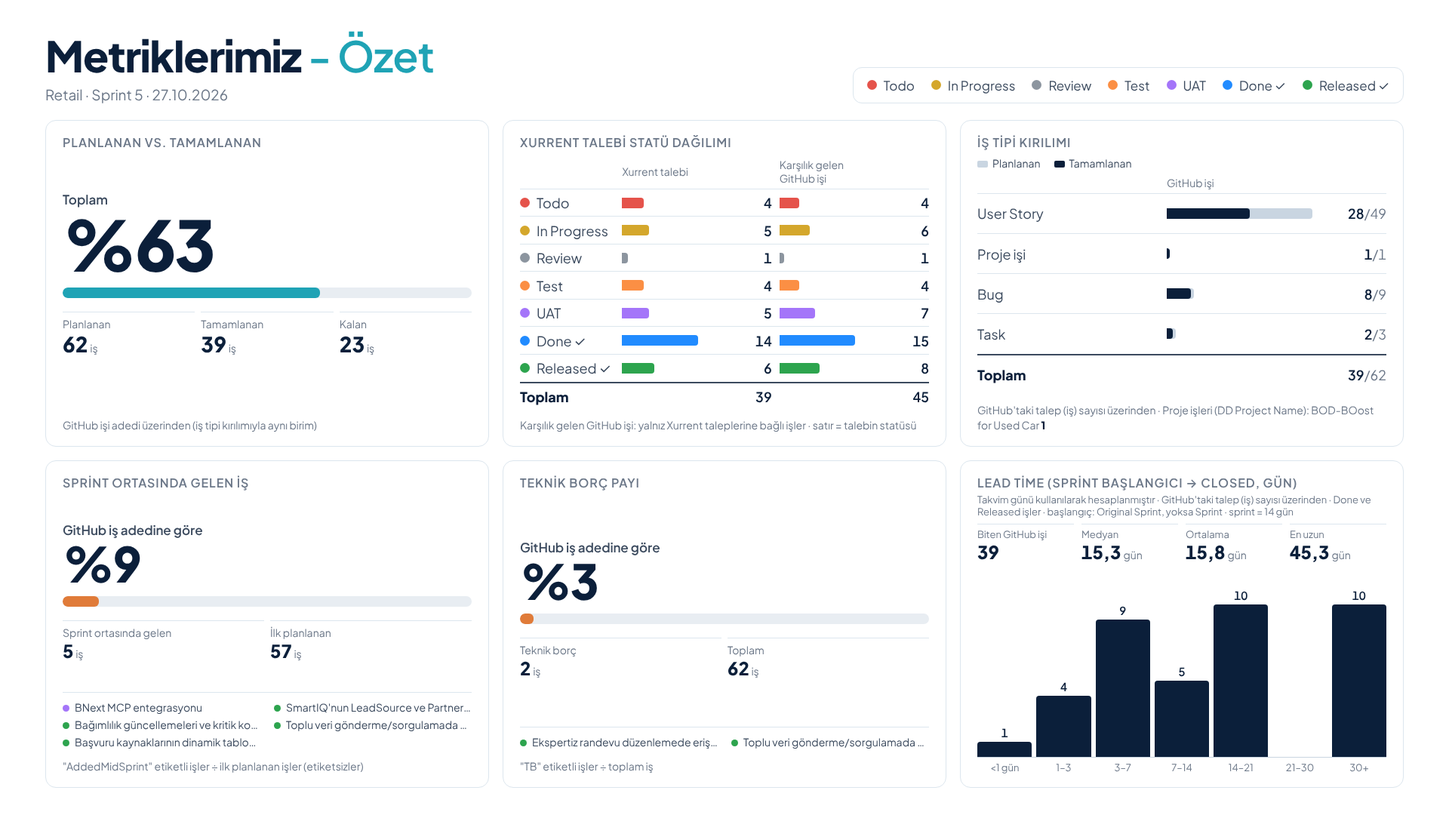
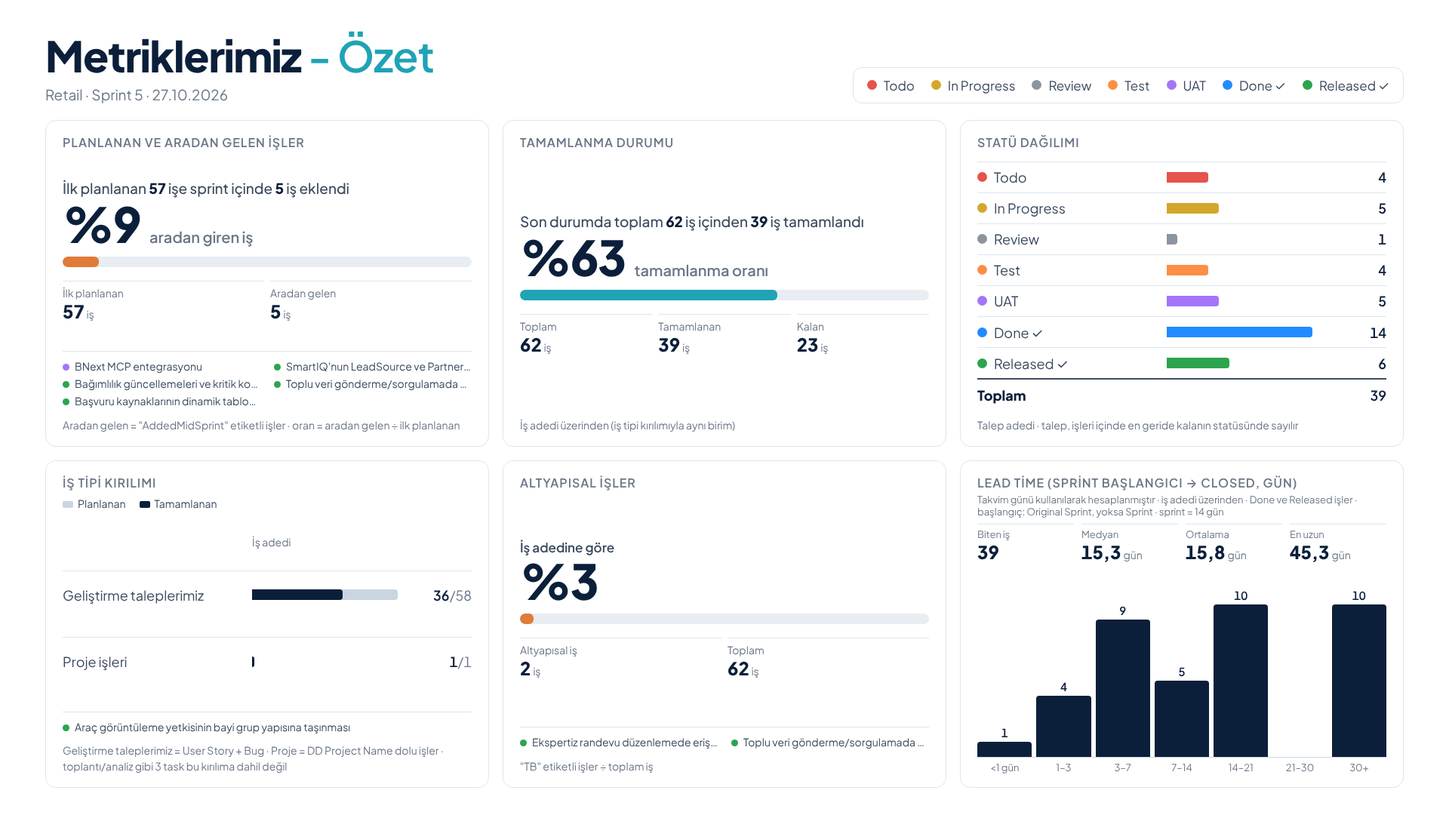
Metrics: Altyapısal işler naming, no GitHub wording, single-column status, Geliştirme/Proje type split, story-style planned/mid-sprint panels; regenerate Retail Sprint 5
Claude-Session: https://claude.ai/code/session_014SYUQQBmb2NC56QaszpaqB

diff --git a/.claude/skills/gelistirmeler-raporu/scripts/build_slides.py b/.claude/skills/gelistirmeler-raporu/scripts/build_slides.py
@@ -6,7 +6,7 @@
    kaç GitHub işinden oluştuğu ve önceki sprintten aktarıldıysa belirteçle gösterilir.
 2. Metriklerimiz — planlanan vs. tamamlanan (distinct Xurrent talebi + Xurrent no'suz ek
    talepler), statü dağılımı (Xurrent talebi | GitHub işi), iş tipi kırılımı, sprint
-   ortasında gelen iş oranı (AddedMidSprint), teknik borç oranı (TB), lead time.
+   ortasında gelen iş oranı (AddedMidSprint), altyapısal işler oranı (TB), lead time.
 3. Metriklerimiz (Takıma özel) — Original Estimate bazında planlanan vs. tamamlanan,
    statü dağılımı (OE) ve kişi bazında planlanan vs. tamamlanan.
 4. Canlıya Çıkmaya Hazır Olan İşler — Done statüsünde ve "Ready For Release" etiketli
@@ -32,6 +32,8 @@ from build_report import (COUNT_FIELD, DEFAULT_DONE, NO_STATUS_COLOR,  # noqa: E
                           normalize, pick_estimate_field)
 
 TYPES = ["User Story", "Proje işi", "Bug", "Task"]
+# Metrik slaytlarındaki iş tipi kırılımı: User Story + Bug birlikte, Proje ayrı; Task gösterilmez
+TYPE_BUCKETS = [("Geliştirme taleplerimiz", {"User Story", "Bug"}), ("Proje işleri", {"Proje işi"})]
 CAT_CLASS = {"User Story": "story", "Proje işi": "proj", "Bug": "bug", "Task": "task"}
 # Düzenli ifade; başlığın küçük harfli halinde aranır
 DEFAULT_TASK_KEYWORDS = [r"işlemler(i)?\b", "toplantı", "takvim", "kurulum", "incele", "migration",
@@ -230,6 +232,19 @@ def ratio_block(label: str, num: float, den: float, num_lbl: str, den_lbl: str, 
     <div><span>{esc(num_lbl)}</span><b>{fmt(num)}{u}</b></div>
     <div><span>{esc(den_lbl)}</span><b>{fmt(den)}{u}</b></div>
   </div>
+</div>"""
+
+
+def story_block(sentence: str, done: float, total: float, cap: str, nums: list, warm: bool = False) -> str:
+    """Cümleyle anlatılan oran: üstte cümle, büyük yüzde + açıklaması, altta sayılar."""
+    p = pct(done, total)
+    cells = "".join(f'<div><span>{esc(l)}</span><b>{fmt(v)}<small>{esc(u)}</small></b></div>' for l, v, u in nums)
+    return f"""
+<div class="comp story">
+  <div class="clabel">{sentence}</div>
+  <div class="chero">%{p:.0f}<span class="hcap">{esc(cap)}</span></div>
+  <div class="bar{' warm' if warm else ''}"><i style="width:{min(p, 100):.2f}%"></i></div>
+  <div class="cnums" style="grid-template-columns:repeat({len(nums)},1fr)">{cells}</div>
 </div>"""
 
 
@@ -494,15 +509,15 @@ def build(a) -> None:
     # Toplam, iş tipi kırılımıyla aynı birim: GitHub işi adedi
     all_done = sum(r["done"] for r in rows)
     if a.ignore_xurrent:
-        comp = completion_block("GitHub talepleri", e_done_n, len(ek), "talep")
+        comp = completion_block("Toplam", all_done, len(rows), "iş")
     else:
-        comp = (mini_comp("Toplam GitHub işi", all_done, len(rows), "iş")
+        comp = (mini_comp("Toplam iş", all_done, len(rows), "iş")
                 + mini_comp("Xurrent talepleri <small>(distinct)</small>", x_done, len(xg), "talep")
                 + mini_comp("Ek talepler <small>(Xurrent no'suz)</small>", e_done_n, len(ek), "talep"))
-    comp_note = ("GitHub işi (talep) adedi üzerinden; Xurrent Talep No bu takımda kullanılmıyor"
+    comp_note = ("İş adedi üzerinden; Xurrent Talep No bu takımda kullanılmıyor"
                  if a.ignore_xurrent else
-                 "Toplam = GitHub işi adedi (iş tipi kırılımıyla aynı) · Xurrent talebi, tüm GitHub işleri "
-                 "bitince tamamlanır · ek talep = Xurrent no'suz GitHub işi")
+                 "Toplam = iş adedi (iş tipi kırılımıyla aynı) · Xurrent talebi, tüm işleri "
+                 "bitince tamamlanır · ek talep = Xurrent no'suz iş")
     status_rows = []
     for o in used_opts:
         mem = [r for r in rows if r["status"] == o["name"]]
@@ -510,16 +525,17 @@ def build(a) -> None:
                             "x": sum(1 for g in xg if g["status"] == o["name"]),
                             "c": len(mem), "e": sum(r["est"] for r in mem)})
     type_rows = []
-    for t in TYPES:
-        mem = [r for r in rows if r["kind"] == t]
-        type_rows.append({"label": t, "c": len(mem), "cd": sum(1 for r in mem if r["done"]),
+    for lbl, kinds in TYPE_BUCKETS:
+        mem = [r for r in rows if r["kind"] in kinds]
+        type_rows.append({"label": lbl, "c": len(mem), "cd": sum(1 for r in mem if r["done"]),
                           "e": sum(r["est"] for r in mem), "ed": sum(r["est"] for r in mem if r["done"])})
+    n_task = sum(1 for r in rows if r["kind"] == "Task")
     projects = collections.Counter(r["fields"].get(a.project_field) for r in rows if r["kind"] == "Proje işi")
     proj_txt = " · ".join(f"{esc(n)} <b>{c}</b>" for n, c in projects.most_common()) or "—"
 
     mid = [r for r in rows if r["mid"]]
     plan = [r for r in rows if not r["mid"]]
-    midp = (ratio_block("GitHub iş adedine göre", len(mid), len(plan), "Sprint ortasında gelen",
+    midp = (ratio_block("İş adedine göre", len(mid), len(plan), "Sprint ortasında gelen",
                         "İlk planlanan", "iş")
             + ratio_block(f"{est_label}'a göre", sum(r["est"] for r in mid), sum(r["est"] for r in plan),
                           "Sprint ortasında gelen", "İlk planlanan", unit))
@@ -528,11 +544,13 @@ def build(a) -> None:
         return "".join(f'<li><span class="dot" style="--c:{hexes.get(g["status"], NO_STATUS_COLOR)}"></span>'
                        f'{esc(g["name"])}</li>' for g in gs)
     mid_list = name_list(mid)
+    proj_rows = [r for r in rows if r["kind"] == "Proje işi"]
+    proj_list = name_list(proj_rows) or '<li class="none">Bu sprintte proje işi yok</li>'
     tb = [r for r in rows if r["tb"]]
     tb_list = name_list(tb)
-    tbp = (ratio_block("GitHub iş adedine göre", len(tb), len(rows), "Teknik borç", "Toplam", "iş")
+    tbp = (ratio_block("İş adedine göre", len(tb), len(rows), "Altyapısal iş", "Toplam", "iş")
            + ratio_block(f"{est_label}'a göre", sum(r["est"] for r in tb), sum(r["est"] for r in rows),
-                         "Teknik borç", "Toplam", unit))
+                         "Altyapısal iş", "Toplam", unit))
 
     closed = [r for r in rows if r["lead"] is not None]
     bins = []
@@ -548,7 +566,7 @@ def build(a) -> None:
     lead_missing = (f" · Closed tarihi olmadığı için hariç: {', '.join('#' + n for n in no_close)}"
                     if no_close else "")
     if leads:
-        lead_stats = (f'<div><span>Biten GitHub işi</span><b>{len(leads)}</b></div>'
+        lead_stats = (f'<div><span>Biten iş</span><b>{len(leads)}</b></div>'
                       f'<div><span>Medyan</span><b>{fmt(round(statistics.median(leads), 1))}<small>gün</small></b></div>'
                       f'<div><span>Ortalama</span><b>{fmt(round(statistics.mean(leads), 1))}<small>gün</small></b></div>'
                       f'<div><span>En uzun</span><b>{fmt(round(max(leads), 1))}<small>gün</small></b></div>')
@@ -557,32 +575,33 @@ def build(a) -> None:
         lead_stats, hist = "", '<div class="emptymsg">Sprint başlangıç tarihi / Closed verisi yok.</div>'
 
     # ---- Özet slaytı: yalnız adet bazlı, sadeleştirilmiş
+    sum_comp = story_block(f"Son durumda toplam <b>{fmt(len(rows))}</b> iş içinden <b>{fmt(all_done)}</b> iş tamamlandı",
+                           all_done, len(rows), "tamamlanma oranı",
+                           [("Toplam", len(rows), "iş"), ("Tamamlanan", all_done, "iş"),
+                            ("Kalan", len(rows) - all_done, "iş")])
     if a.ignore_xurrent:
-        sum_comp = completion_block("GitHub talepleri", e_done_n, len(ek), "talep")
         sum_status_rows = [{"label": r["label"], "color": r["color"], "c": r["c"]} for r in status_rows]
-        sum_status_cols = [{"key": "c", "head": "GitHub işi"}]
+        sum_status_cols = [{"key": "c", "head": ""}]
         sum_status_total = {"label": "Toplam", "c": len(rows)}
     else:
-        sum_comp = completion_block("Toplam", all_done, len(rows), "iş")
-        # GitHub işi = yalnız Xurrent taleplerine bağlı işler (talebin statüsüne göre)
-        sum_status_rows = [{"label": r["label"], "color": r["color"], "x": r["x"],
-                            "c": sum(len(g["items"]) for g in xg if g["status"] == o["name"])}
-                           for r, o in zip(status_rows, used_opts)]
-        sum_status_cols = [{"key": "x", "head": "Xurrent talebi"}, {"key": "c", "head": "Karşılık gelen GitHub işi"}]
-        sum_status_total = {"label": "Toplam", "x": len(xg), "c": sum(len(g["items"]) for g in xg)}
+        # yalnız Xurrent talepleri; talep, işleri içinde en geride kalanın statüsünde
+        sum_status_rows = [{"label": r["label"], "color": r["color"], "x": r["x"]} for r in status_rows]
+        sum_status_cols = [{"key": "x", "head": ""}]
+        sum_status_total = {"label": "Toplam", "x": len(xg)}
     sum_status_rows = [r for r in sum_status_rows if any(r[c["key"]] for c in sum_status_cols)]
     sum_status = multi_table(sum_status_rows, sum_status_cols, total=sum_status_total)
-    sum_types = multi_table(type_rows, [{"key": "c", "done": "cd", "head": "GitHub işi"}],
-                            total={"label": "Toplam", "c": sum(t["c"] for t in type_rows),
-                                   "cd": sum(t["cd"] for t in type_rows)})
-    sum_mid = ratio_block("GitHub iş adedine göre", len(mid), len(plan), "Sprint ortasında gelen",
-                          "İlk planlanan", "iş")
-    sum_tb = ratio_block("GitHub iş adedine göre", len(tb), len(rows), "Teknik borç", "Toplam", "iş")
-    sum_status_note = ("GitHub işi: tüm işler" if a.ignore_xurrent else
-                       "Karşılık gelen GitHub işi: yalnız Xurrent taleplerine bağlı işler · satır = talebin statüsü")
-    status_title = "Statü dağılımı" if a.ignore_xurrent else "Xurrent talebi statü dağılımı"
-    sum_comp_note = ("GitHub işi (talep) adedi üzerinden; Xurrent Talep No bu takımda kullanılmıyor"
-                     if a.ignore_xurrent else "GitHub işi adedi üzerinden (iş tipi kırılımıyla aynı birim)")
+    sum_types = multi_table(type_rows, [{"key": "c", "done": "cd", "head": "İş adedi"}])
+    sum_mid = story_block(f"İlk planlanan <b>{fmt(len(plan))}</b> işe sprint içinde <b>{fmt(len(mid))}</b> iş eklendi",
+                          len(mid), len(plan), "aradan giren iş",
+                          [("İlk planlanan", len(plan), "iş"), ("Aradan gelen", len(mid), "iş")], warm=True)
+    sum_tb = ratio_block("İş adedine göre", len(tb), len(rows), "Altyapısal iş", "Toplam", "iş")
+    sum_status_note = ("İş adedi · tüm işler" if a.ignore_xurrent else
+                       "Talep adedi · talep, işleri içinde en geride kalanın statüsünde sayılır")
+    status_title = "Statü dağılımı"
+    sum_comp_note = ("İş adedi üzerinden; Xurrent Talep No bu takımda kullanılmıyor"
+                     if a.ignore_xurrent else "İş adedi üzerinden (iş tipi kırılımıyla aynı birim)")
+    types_note = (f"Geliştirme taleplerimiz = User Story + Bug · Proje = {esc(a.project_field)} dolu işler"
+                  + (f" · toplantı/analiz gibi {n_task} task bu kırılıma dahil değil" if n_task else ""))
 
     # ---- Slayt 3: takıma özel (Original Estimate)
     xe = [r for r in rows if r["xno"]]
@@ -653,13 +672,13 @@ def build(a) -> None:
                    ["<b>Xurrent talebi</b>: aynı Xurrent Talep No'ya sahip GitHub işleri tek talep sayılır "
                     "(BE/FE/App/Web parçaları); talep, tüm işleri bitince tamamlanmış sayılır.",
                     "<b>Ek talep</b>: Xurrent Talep No'su boş GitHub işi; her biri ayrı sayılır.",
-                    "<b>GitHub işi</b>: panodaki her issue. Planlanan vs. tamamlanan toplamı ve iş tipi kırılımı "
-                    "bu birimle hesaplanır; bu yüzden talep sayısından büyük olabilir.",
-                    "Xurrent statü dağılımında talep, işleri içinde <b>en geride kalanın</b> statüsünde sayılır; "
-                    "\"Karşılık gelen GitHub işi\" o talebe bağlı işlerin adedidir."])
+                    "<b>İş</b>: panodaki her GitHub issue'su. Tamamlanma oranı, aradan gelen iş, altyapısal işler "
+                    "ve iş tipi kırılımı bu birimle hesaplanır; bu yüzden talep sayısından büyük olabilir.",
+                    "Statü dağılımı yalnız Xurrent taleplerini sayar; talep, işleri içinde "
+                    "<b>en geride kalanın</b> statüsünde sayılır."])
     cards = [
         ("Kapsam", [f"Sprint: {esc(', '.join(sorted({r['sprint'] for r in rows} - {''})) or '—')} · "
-                    f"{len(rows)} GitHub işi değerlendirildi.",
+                    f"{len(rows)} iş değerlendirildi.",
                     f"Hariç tutulanlar: statüsü <b>{esc(', '.join(a.exclude_status))}</b> olan ve "
                     f"<b>{esc(', '.join(a.exclude_label))}</b> etiketli işler — bu sprintte: {nums(excluded)}.",
                     "Tüm slayt ve metrikler bu kapsam üzerinden hesaplanır."]),
@@ -670,10 +689,12 @@ def build(a) -> None:
         ("İş tipi", ["Başlıkta [BUG] → <b>Bug</b>; DD Project Name dolu → <b>Proje işi</b>; "
                      "toplantı, analiz/inceleme, deployment, kurulum, operasyonel işler → <b>Task</b>; "
                      "diğerleri → <b>User Story</b>.",
+                     "Metrik slaytlarında <b>Geliştirme taleplerimiz</b> = User Story + Bug; <b>Proje işleri</b> "
+                     "ayrı gösterilir ve altında listelenir; Task'lar bu kırılıma dahil edilmez.",
                      "GitHub'ta issue type sütunu dışa aktarılırsa doğrudan o kullanılır."]),
-        ("Etiket bazlı metrikler", [f"Sprint ortasında gelen iş = \"{esc(a.mid_label[0])}\" etiketli işler ÷ "
+        ("Etiket bazlı metrikler", [f"Aradan giren iş oranı = \"{esc(a.mid_label[0])}\" etiketli işler ÷ "
                                     "etiketsiz (ilk planlanan) işler.",
-                                    f"Teknik borç payı = \"{esc(a.tb_label[0])}\" etiketli işler ÷ toplam iş.",
+                                    f"Altyapısal işler payı = \"{esc(a.tb_label[0])}\" etiketli işler ÷ toplam iş.",
                                     "Etiket karşılaştırmasında büyük/küçük harf, boşluk, - ve _ yok sayılır."]),
         ("Lead time", ["Yalnız <b>Done ve Released</b> işler; süre <b>takvim günü</b> olarak sprint "
                        "başlangıcından Closed tarihine kadar ölçülür.",
@@ -707,17 +728,17 @@ def build(a) -> None:
         n_groups=len(groups), n_items=len(rows), n_carry=n_carry,
         comp=comp, comp_note=comp_note,
         status=sum_status, status_title=status_title, sum_comp_note=sum_comp_note,
-        types=multi_table(type_rows, [{"key": "c", "done": "cd", "head": "GitHub işi"},
-                                      {"key": "e", "done": "ed", "head": est_label}]),
+        types=multi_table(type_rows, [{"key": "c", "done": "cd", "head": "İş adedi"},
+                                      {"key": "e", "done": "ed", "head": est_label}], label_fr=3.2),
         projects=proj_txt, pfield=esc(a.project_field), midp=midp, tbp=tbp,
         mid_label=esc(a.mid_label[0]), tb_label=esc(a.tb_label[0]), mid_list=mid_list, tb_list=tb_list,
         lead_stats=lead_stats, hist=hist, sprint_days=a.sprint_days, lead_missing=lead_missing, oe=oe, est_label=esc(est_label),
         status_oe=multi_table(status_rows, [{"key": "e", "head": est_label}]),
-        people=multi_table(people_rows, [{"key": "c", "done": "cd", "head": "GitHub işi"},
+        people=multi_table(people_rows, [{"key": "c", "done": "cd", "head": "İş adedi"},
                                          {"key": "e", "done": "ed", "head": est_label}], 1.6),
         assumptions=assumptions,
         sum_comp=sum_comp, sum_status=sum_status, sum_status_note=sum_status_note, sum_types=sum_types,
-        sum_mid=sum_mid, sum_tb=sum_tb,
+        sum_mid=sum_mid, sum_tb=sum_tb, proj_list=proj_list, types_note=types_note,
         ready=ready_html, ready_note=ready_note, n_ready=len(ready_groups),
         released=released_html, n_released=len(rel_groups),
         rel_cols=2 if len(rel_groups) > 12 else 1,
@@ -733,7 +754,7 @@ def build(a) -> None:
           f"({len(xg)} Xurrent talebi, {len(ek)} ek iş)")
     print(f"  Xurrent: {sum(g['done'] for g in xg)}/{len(xg)} tamam · ek: {sum(r['done'] for r in ek)}/{len(ek)}")
     print(f"  sprint ortası: {len(mid)}/{len(plan)} iş, {fmt(sum(r['est'] for r in mid))}/"
-          f"{fmt(sum(r['est'] for r in plan))} OE · teknik borç: {len(tb)}/{len(rows)} iş, "
+          f"{fmt(sum(r['est'] for r in plan))} OE · altyapısal: {len(tb)}/{len(rows)} iş, "
           f"{fmt(sum(r['est'] for r in tb))}/{fmt(sum(r['est'] for r in rows))} OE")
     print(f"  canlıya hazır: {len(ready_rows)} iş / {len(ready_groups)} tema · aktarılan tema: {n_carry}")
     if leads:
@@ -797,6 +818,11 @@ h1 span {{ color:var(--accent); font-weight:600; }}
 .cnums span {{ font-size:14px; color:var(--muted); }}
 .cnums b {{ font-size:28px; font-variant-numeric:tabular-nums; white-space:nowrap; }}
 .cnums small, .lstats small {{ font-size:14px; font-weight:400; color:var(--muted); margin-left:3px; }}
+.chero .hcap {{ font-size:20px; font-weight:600; letter-spacing:0; color:var(--muted); margin-left:12px; }}
+.story .clabel {{ font-weight:500; font-size:19px; line-height:1.35; }}
+.story .clabel b {{ font-weight:800; color:var(--ink); }}
+.names.one {{ columns:1; }}
+.names li.none {{ color:var(--muted); }}
 .cnote {{ font-size:14px; color:var(--muted); margin-top:8px; }}
 .minis {{ display:flex; flex-direction:column; justify-content:space-evenly; flex:1; gap:18px; }}
 .mini .mtop {{ display:flex; align-items:baseline; justify-content:space-between; }}
@@ -938,22 +964,23 @@ h1 span {{ color:var(--accent); font-weight:600; }}
     <ul class="legend">{legend}</ul>
   </header>
   <div class="grid">
-    <div class="panel"><div class="ptitle">Planlanan vs. tamamlanan</div><div class="minis">{sum_comp}</div>
+    <div class="panel"><div class="ptitle">Planlanan ve aradan gelen işler</div><div class="comps r one">{sum_mid}</div>
+      <ul class="names">{mid_list}</ul>
+      <div class="pfoot">Aradan gelen = "{mid_label}" etiketli işler · oran = aradan gelen ÷ ilk planlanan</div></div>
+    <div class="panel"><div class="ptitle">Tamamlanma durumu</div><div class="comps r one">{sum_comp}</div>
       <div class="pfoot">{sum_comp_note}</div></div>
     <div class="panel"><div class="ptitle">{status_title}</div>{sum_status}
       <div class="pfoot">{sum_status_note}</div></div>
     <div class="panel"><div class="ptitle">İş tipi kırılımı</div>
       <div class="pkey"><span style="--k:var(--plan)">Planlanan</span><span style="--k:var(--ink)">Tamamlanan</span></div>
       {sum_types}
-      <div class="pfoot">GitHub'taki talep (iş) sayısı üzerinden · Proje işleri ({pfield}): {projects}</div></div>
-    <div class="panel"><div class="ptitle">Sprint ortasında gelen iş</div><div class="comps r one">{sum_mid}</div>
-      <ul class="names">{mid_list}</ul>
-      <div class="pfoot">"{mid_label}" etiketli işler ÷ ilk planlanan işler (etiketsizler)</div></div>
-    <div class="panel"><div class="ptitle">Teknik borç payı</div><div class="comps r one">{sum_tb}</div>
+      <ul class="names one">{proj_list}</ul>
+      <div class="pfoot">{types_note}</div></div>
+    <div class="panel"><div class="ptitle">Altyapısal işler</div><div class="comps r one">{sum_tb}</div>
       <ul class="names">{tb_list}</ul>
       <div class="pfoot">"{tb_label}" etiketli işler ÷ toplam iş</div></div>
     <div class="panel"><div class="ptitle">Lead time (Sprint başlangıcı → Closed, gün)</div>
-      <div class="lsub">Takvim günü kullanılarak hesaplanmıştır · GitHub'taki talep (iş) sayısı üzerinden · Done ve Released işler · başlangıç: Original Sprint, yoksa Sprint · sprint = {sprint_days} gün{lead_missing}</div>
+      <div class="lsub">Takvim günü kullanılarak hesaplanmıştır · iş adedi üzerinden · Done ve Released işler · başlangıç: Original Sprint, yoksa Sprint · sprint = {sprint_days} gün{lead_missing}</div>
       <div class="lstats">{lead_stats}</div>{hist}</div>
   </div>
 </section></div>
@@ -971,15 +998,16 @@ h1 span {{ color:var(--accent); font-weight:600; }}
     <div class="panel"><div class="ptitle">İş tipi kırılımı</div>
       <div class="pkey"><span style="--k:var(--plan)">Planlanan</span><span style="--k:var(--ink)">Tamamlanan</span></div>
       {types}
-      <div class="pfoot">Proje işleri ({pfield}): {projects}</div></div>
+      <ul class="names one">{proj_list}</ul>
+      <div class="pfoot">{types_note}</div></div>
     <div class="panel"><div class="ptitle">Sprint ortasında gelen iş</div><div class="comps r">{midp}</div>
       <ul class="names">{mid_list}</ul>
       <div class="pfoot">"{mid_label}" etiketli işler ÷ ilk planlanan işler (etiketsizler)</div></div>
-    <div class="panel"><div class="ptitle">Teknik borç payı</div><div class="comps r">{tbp}</div>
+    <div class="panel"><div class="ptitle">Altyapısal işler</div><div class="comps r">{tbp}</div>
       <ul class="names">{tb_list}</ul>
       <div class="pfoot">"{tb_label}" etiketli işler ÷ toplam iş</div></div>
     <div class="panel"><div class="ptitle">Lead time (Sprint başlangıcı → Closed, gün)</div>
-      <div class="lsub">Takvim günü kullanılarak hesaplanmıştır · GitHub'taki talep (iş) sayısı üzerinden · Done ve Released işler · başlangıç: Original Sprint, yoksa Sprint · sprint = {sprint_days} gün{lead_missing}</div>
+      <div class="lsub">Takvim günü kullanılarak hesaplanmıştır · iş adedi üzerinden · Done ve Released işler · başlangıç: Original Sprint, yoksa Sprint · sprint = {sprint_days} gün{lead_missing}</div>
       <div class="lstats">{lead_stats}</div>{hist}</div>
   </div>
 </section></div>
@@ -1095,7 +1123,7 @@ def main() -> None:
     ap.add_argument("--task-keyword", action="append",
                     help="Başlıkta geçerse Task sayılır (regex, tekrarlanabilir; varsayılanı değiştirir)")
     ap.add_argument("--mid-label", action="append", default=None, help="Sprint ortasında gelen iş etiketi")
-    ap.add_argument("--tb-label", action="append", default=None, help="Teknik borç etiketi")
+    ap.add_argument("--tb-label", action="append", default=None, help="Altyapısal iş etiketi (TB)")
     ap.add_argument("--ready-label", action="append", default=None, help="Canlıya hazır etiketi")
     ap.add_argument("--ready-status", action="append", default=None, help="Canlıya hazır statüsü")
     ap.add_argument("--themes", help="Tema adları JSON'u (grup anahtarı → ad)")

diff --git a/.claude/skills/gelistirmeler-raporu/SKILL.md b/.claude/skills/gelistirmeler-raporu/SKILL.md
@@ -118,34 +118,38 @@ UAT **mor** · Done mavi · Released yeşil (tüm slaytlarda aynı).
    bullet (grubun **en geride** kalan işinin statüsü), iş birimi diliyle **tema adı**; kolonda birden fazla statü varsa
    statü adı, grup birden fazla GitHub işinden oluşuyorsa **"N talep"**. `Original Sprint`
    işin sprintinden farklıysa sarı **"↪ Sprint N"** etiketi ve sarı vurgu.
-2. **Metriklerimiz - Özet** — sade, yalnız GitHub/talep adedi (Original Estimate yok):
-   - Planlanan vs. tamamlanan: yalnız **Toplam**, **GitHub işi adedi** üzerinden (iş tipi
-     kırılımıyla aynı birim; parantez/alt kırılım yok).
-   - **Xurrent talebi statü dağılımı**: Xurrent talebi | **Karşılık gelen GitHub işi**
-     (= yalnız Xurrent taleplerine bağlı işler, talebin statüsü satırında). Metriklerimiz
-     slaytında da aynı tablo kullanılır. `--ignore-xurrent` takımlarında başlık "Statü
-     dağılımı", tek kolon GitHub işi. En altta **Toplam** satırı; tamamen 0 olan
-     satırlar gizlenir.
-   - İş tipi kırılımı: GitHub işi (planlanan/tamamlanan) + **Toplam** satırı.
-   - Sprint ortasında gelen iş ve teknik borç: yalnız GitHub iş adedine göre.
-   - Lead time: "Takvim günü kullanılarak hesaplanmıştır" notuyla.
-3. **Metriklerimiz** — yalnız adet bazlı, OE yok (iş tipi hariç):
-   - Planlanan vs. tamamlanan: **Toplam GitHub işi** (iş tipi kırılımıyla aynı birim), **distinct Xurrent talebi**
-     (talep, tüm GitHub işleri bitince tamamlanmış sayılır) ve **ek talepler**
-     (Xurrent no'suz GitHub işleri) — üç ayrı oran.
-   - Statü dağılımı: iki kolon — Xurrent talebi (grubun en geri statüsü) | GitHub işi.
-   - İş tipi kırılımı: GitHub işi | Original Estimate (planlanan/tamamlanan).
+2. **Metriklerimiz - Özet** — sade, yalnız adet (Original Estimate yok). Metrik slaytlarında
+   "GitHub" kelimesi geçmez; birim **iş adedi**dir. Panel sırası:
+   - **Planlanan ve aradan gelen işler**: cümleyle — "İlk planlanan N işe sprint içinde M iş
+     eklendi", büyük **%x aradan giren iş** (= `AddedMidSprint` etiketli ÷ etiketsiz ilk planlanan);
+     altında aradan gelen işlerin tema adları.
+   - **Tamamlanma durumu**: "Son durumda toplam N iş içinden D iş tamamlandı", büyük
+     **%y tamamlanma oranı** (iş adedi; iş tipi kırılımıyla aynı birim).
+   - **Statü dağılımı**: tek kolon, yalnız **Xurrent talebi adedi** (talep, işleri içinde en geride
+     kalanın statüsünde); kolon başlığı yok, "Xurrent" yazmaz. En altta **Toplam**; 0 satırlar gizli.
+     `--ignore-xurrent` takımlarında tek kolon iş adedi.
+   - **İş tipi kırılımı**: yalnız iki satır — **Geliştirme taleplerimiz** (User Story + Bug) ve
+     **Proje işleri** (planlanan/tamamlanan iş adedi); Task'lar bu kırılımda yok (notta adedi yazar).
+     Altında proje işlerinin tema adları listelenir (talep adından projeyi özetleyen iş birimi dili —
+     tema adları `temalar.json`'da Claude tarafından yazılır).
+   - **Altyapısal işler** (eski adıyla teknik borç): `TB` etiketli ÷ toplam iş; altında tema adları.
+   - Lead time: "Takvim günü kullanılarak hesaplanmıştır" notuyla, iş adedi üzerinden.
+3. **Metriklerimiz** — adet bazlı (iş tipi, aradan gelen ve altyapısal işlerde OE de var):
+   - Planlanan vs. tamamlanan: **Toplam iş** (iş tipi kırılımıyla aynı birim), **distinct Xurrent talebi**
+     (talep, tüm işleri bitince tamamlanmış sayılır) ve **ek talepler** (Xurrent no'suz işler) — üç oran.
+   - Statü dağılımı: Özet'teki tabloyla aynı (tek kolon, Xurrent talebi adedi).
+   - İş tipi kırılımı: Geliştirme taleplerimiz / Proje işleri — iş adedi | Original Estimate; altında proje listesi.
    - Sprint ortasında gelen iş: `AddedMidSprint` etiketli ÷ ilk planlanan (etiketsiz),
      hem iş adedi hem OE; altında o işlerin tema adları.
-   - Teknik borç payı: `TB` etiketli ÷ toplam, hem iş adedi hem OE; altında tema adları.
-   - Lead time histogramı (**GitHub işi** bazında, talep bazında değil — slaytta not olarak yazar; Closed tarihi boş biten işler hariç tutulur ve numaraları notta listelenir): yalnızca **Done ve Released** statüsündeki
+   - Altyapısal işler: `TB` etiketli ÷ toplam, hem iş adedi hem OE; altında tema adları.
+   - Lead time histogramı (iş adedi bazında, talep bazında değil; Closed tarihi boş biten işler hariç tutulur ve numaraları notta listelenir): yalnızca **Done ve Released** statüsündeki
      işler (`--lead-status`; Closed tarihi olup başka statüde olanlar sayılmaz). Süre,
      sprint başlangıcından Closed tarihine kadar geçen gün. `Original Sprint` doluysa o
      sprintin, boşsa işin `Sprint` alanındaki sprintin başlangıcı esas alınır; önceki
      sprintler mevcut sprintten geriye her biri `--sprint-days` (14) gün sayılarak bulunur.
 4. **Metriklerimiz (Takıma özel)** — Original Estimate bazında planlanan vs. tamamlanan
    (toplam / Xurrent talepleri / ek talepler; iş bazında), statü dağılımı (OE) ve kişi
-   bazında planlanan vs. tamamlanan (GitHub işi | OE).
+   bazında planlanan vs. tamamlanan (iş adedi | OE).
 5. **Canlıya Çıkmaya Hazır Olan İşler** — gruplama slayt 1 ile aynıdır (Xurrent Talep No).
    - Sol: **release bekleyen** = statü `Done` + `Ready For Release` / `WaitingRelease` /
      `Waiting For Release` etiketi.
@@ -198,12 +202,12 @@ yeniden kullanılabilir).
 | Seçenek | Varsayılan | Not |
 |---|---|---|
 | `--xurrent-field` | `Xurrent Talep No` | Sütun esastır (başlıktaki numaradan farklı olabilir). Sütun yoksa ya da hücre boşsa başlığın başındaki numara (`82634239 - …`, `+82634239 - …`) kullanılır; boş hücre için uyarı basılır — kullanıcıya bildir |
-| `--ignore-xurrent` | kapalı | **Takım istisnası (Back Office):** Xurrent Talep No yok sayılır; planlanan vs. tamamlanan yalnız "GitHub talepleri" (iş adedi), statü dağılımı tek kolon (GitHub işi), OE paneli yalnız Toplam. Gruplama sadece BE/FE gibi parçalar üzerinden yapılır |
+| `--ignore-xurrent` | kapalı | **Takım istisnası (Back Office):** Xurrent Talep No yok sayılır; planlanan vs. tamamlanan yalnız toplam iş adedi, statü dağılımı tek kolon (iş adedi), OE paneli yalnız Toplam. Gruplama sadece BE/FE gibi parçalar üzerinden yapılır |
 | `--origin-field` | `Original Sprint` | Değer `3` ya da `Sprint 3` olabilir. İşin `Sprint`'inden farklıysa "aktarıldı" belirteci gösterilir (aynıysa gösterilmez); sütun yoksa uyarı verir |
 | `--sprint-field` | `Sprint` | Alt başlıkta gösterilir; lead time başlangıcı |
 | `--sprint-start` | — | **Zorunlu (lead time için):** `'Sprint 4=2026-10-05'`; tekrarlanabilir. Tanımlanmayan sprintler numarası ve `--sprint-days` (14) ile türetilir. Export'ta sprint tarihi yoktur — kullanıcıya sor veya bilinen bir tarihten çıkar ve varsayımı söyle |
 | `--mid-label` | `AddedMidSprint` | Sprint ortasında gelen iş |
-| `--tb-label` | `TB`, `Teknik Borç`, `Tech Debt` | Teknik borç |
+| `--tb-label` | `TB`, `Teknik Borç`, `Tech Debt` | Altyapısal işler (slaytlarda "teknik borç" yerine bu ad kullanılır) |
 | `--ready-label` / `--ready-status` | `Ready For Release`, `WaitingRelease`, `Waiting For Release` / `Done` | Canlıya hazır (release bekleyen) |
 | `--team` | proje adı | Alt başlıktaki takım adı |
 
@@ -215,7 +219,7 @@ Etiket eşleşmesi büyük/küçük harf, boşluk, `-` ve `_` farkını yok saya
   dönüşleri, modelbuilder, dwh — düzenli ifade, Türkçe küçük harfle aranır) → Task; kalanlar
   User Story. Grubun kategorisi, işlerinin çoğunluk tipidir. Export'a `Type` sütunu
   eklenirse o kullanılır.
-- Konsol çıktısındaki özet sayıları (Xurrent / ek / sprint ortası / teknik borç /
+- Konsol çıktısındaki özet sayıları (Xurrent / ek / sprint ortası / altyapısal işler /
   canlıya hazır) ve uyarıları (eksik sütunlar) kullanıcıya aktar.
 - PNG için Node + `playwright` gerekir; yoksa HTML'i tarayıcıda açıp yazdır → PDF.
 
